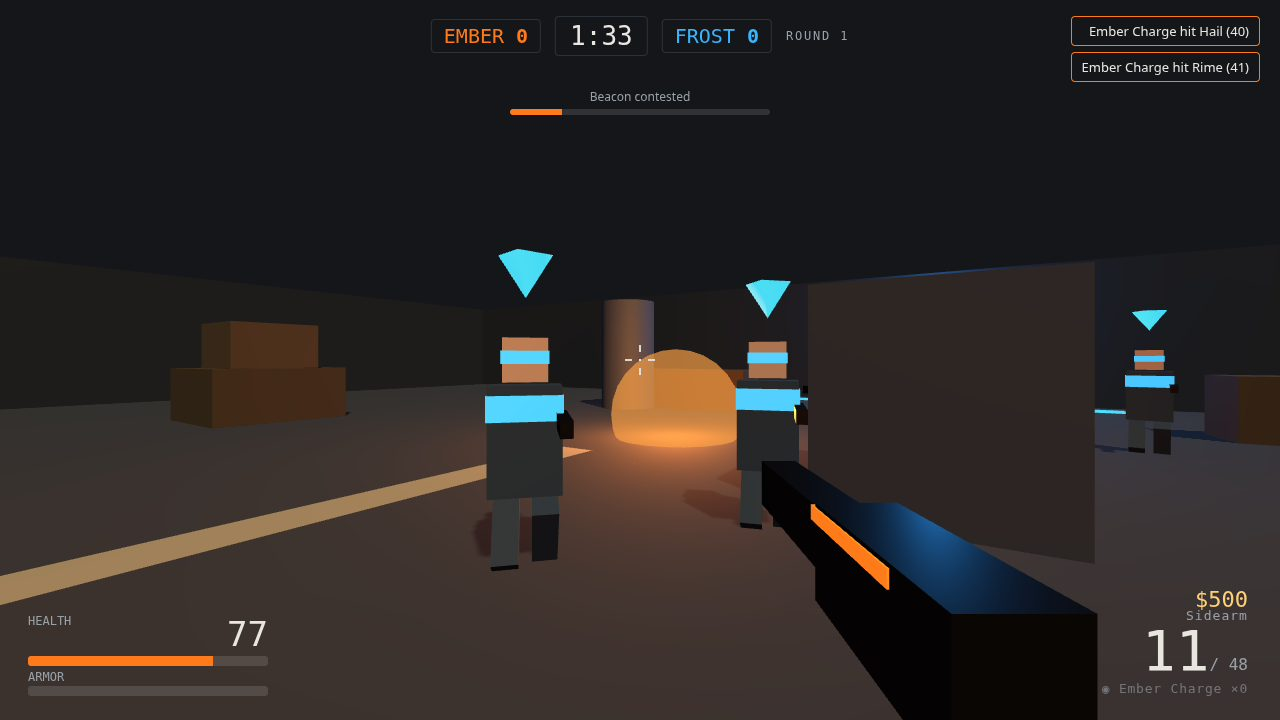
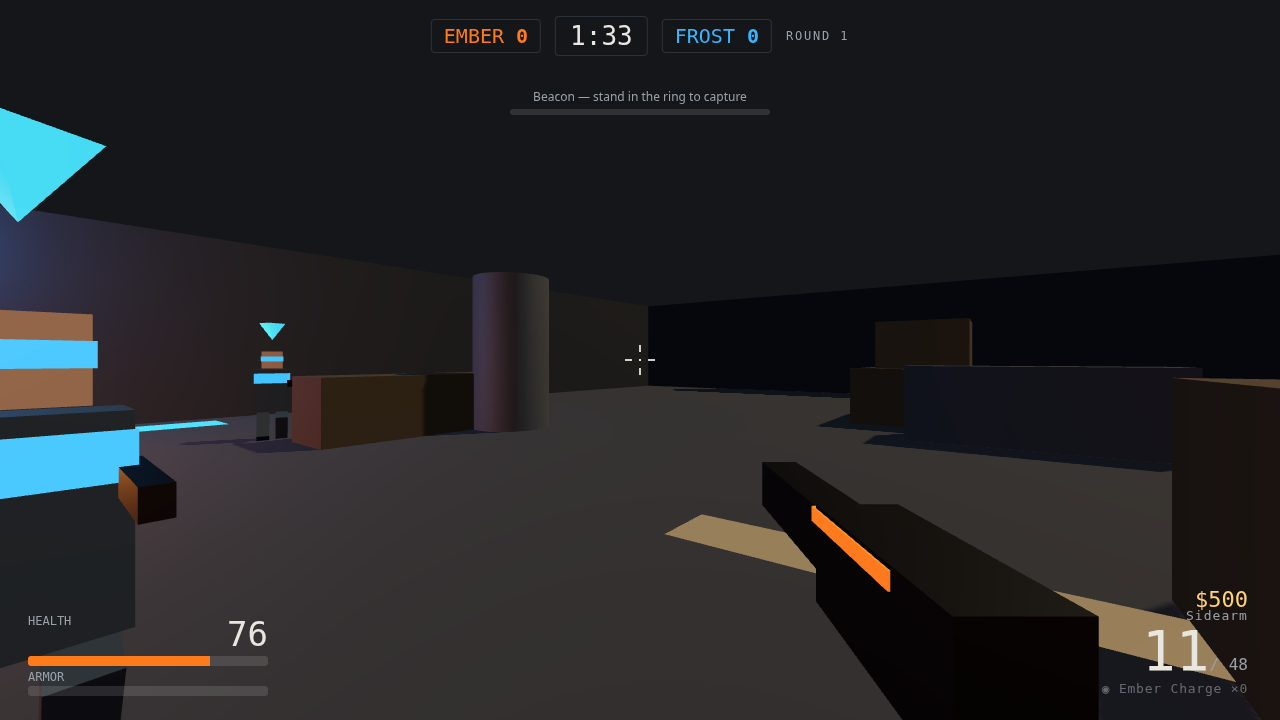
Revision: seeded spawn/route variety, pause restart, saved settings, FPS readout
- random.js: shuffle/chance helpers; bots pick among 3 closest waypoints,
  spawn slots reshuffle every round (seeded, still deterministic)
- Pause overlay gains a Restart match button; difficulty and mouse
  sensitivity persist in localStorage; FPS readout in the HUD

diff --git a/game/src/main.js b/game/src/main.js
@@ -9,7 +9,7 @@ import { createInput } from './input.js';
 import { createHud } from './hud.js';
 import { createSound } from './sound.js';
 import { WEAPONS, ARMOR_PRICE, ARMOR_ABSORB, START_MONEY, KILL_REWARD, WIN_REWARD, LOSS_REWARD, ROUND_TIME, CAPTURE_TIME, WIN_ROUNDS, GRENADE_PRICE, GRENADE_MAX, GRENADE_DAMAGE, GRENADE_RADIUS, weaponState } from './weapons.js';
-import { mulberry32, range } from './random.js';
+import { mulberry32, range, shuffle, chance } from './random.js';
 import { stageShot } from './shots.js';
 import { createViewmodel } from './viewmodel.js';
 
@@ -47,7 +47,25 @@ const tracers = createTracers(scene);
 const grenades = createGrenades(scene, world);
 const hud = createHud();
 const sound = createSound();
-const input = createInput(renderer.domElement, onLockChange);
+
+// Saved preferences (local only): difficulty and mouse sensitivity persist
+// between visits, so the title screen opens the way the player left it.
+// Both functions only run after match and input exist (on a key press or a
+// difficulty click), so referencing them here is safe.
+function saveSettings() {
+  try {
+    window.localStorage.setItem('emberline-settings',
+      JSON.stringify({ difficulty: match.difficulty, sensitivity: input.state.sensitivity }));
+  } catch { /* private mode or storage off: preferences just do not persist */ }
+}
+function loadSettings() {
+  try {
+    const s = JSON.parse(window.localStorage.getItem('emberline-settings') ?? '{}');
+    if (s.difficulty && DIFFICULTY[s.difficulty]) match.difficulty = s.difficulty;
+    if (typeof s.sensitivity === 'number') input.state.sensitivity = Math.min(2, Math.max(0.4, s.sensitivity));
+  } catch { /* corrupt or unavailable storage: keep the defaults */ }
+}
+const input = createInput(renderer.domElement, onLockChange, saveSettings);
 
 // Viewmodel gun (box assembly with walk bob, fire kick and reload dip).
 const viewmodel = createViewmodel(camera);
@@ -77,6 +95,8 @@ const player = {
 };
 let bots = [];
 let autopilot = false;
+loadSettings(); // restores the saved difficulty before the first bots spawn
+hud.setDifficulty(match.difficulty);
 let autoStrafe = 0, autoStuckTimer = 0, autoStrafeTimer = 0;
 let autoLastPos = { x: 0, z: 0 };
 let paused = false;
@@ -96,7 +116,9 @@ function spawnPositions(team) {
 function buildBots() {
   for (const b of bots) scene.remove(b.group);
   bots = [];
-  const e = spawnPositions('ember'), f = spawnPositions('frost');
+  // Fresh spawn-slot shuffle every rebuild, so the same bot does not always
+  // start from the same spot in the yard.
+  const e = shuffle(rng, spawnPositions('ember')), f = shuffle(rng, spawnPositions('frost'));
   const diff = DIFFICULTY[match.difficulty];
   for (let i = 0; i < 4; i++) bots.push(createBot(scene, world, { team: 'ember', index: i, x: e[i + 1].x, z: e[i + 1].z, rng, skillMult: diff.skill, speedMult: diff.speed }));
   for (let i = 0; i < 5; i++) bots.push(createBot(scene, world, { team: 'frost', index: i, x: f[i].x, z: f[i].z, rng, skillMult: diff.skill, speedMult: diff.speed }));
@@ -315,7 +337,9 @@ function startBuyPhase() {
   player.hp = 100; player.alive = true; player.spectate = null;
   player.pos.set(EMBER_SPAWN.x, 0, EMBER_SPAWN.z);
   player.yaw = 0; player.pitch = 0; player.velY = 0;
-  const e = spawnPositions('ember'), f = spawnPositions('frost');
+  // Fresh spawn-slot shuffle every round, so the same bot does not always
+  // start from the same spot in the yard.
+  const e = shuffle(rng, spawnPositions('ember')), f = shuffle(rng, spawnPositions('frost'));
   bots.forEach((b, i) => {
     const p = b.team === 'ember' ? e[i + 1] : f[i - 4];
     b.reset(p.x, p.z);
@@ -588,7 +612,7 @@ function autopilotStep(dt) {
     const moved = Math.hypot(player.pos.x - autoLastPos.x, player.pos.z - autoLastPos.z);
     autoLastPos = { x: player.pos.x, z: player.pos.z };
     autoStuckTimer = 0;
-    if (moved < 0.25 && autoStrafeTimer <= 0) { autoStrafe = autoStrafe === 0 ? 1 : -autoStrafe; autoStrafeTimer = 1.4; }
+    if (moved < 0.25 && autoStrafeTimer <= 0) { autoStrafe = chance(rng, 0.5) ? 1 : -1; autoStrafeTimer = 1.4; }
   }
   if (autoStrafeTimer > 0) { autoStrafeTimer -= dt; if (autoStrafeTimer <= 0) autoStrafe = 0; }
   let best = null, bestD = Infinity;
@@ -613,6 +637,7 @@ function onLockChange(locked) {
   if (!locked && match.phase === 'play' && player.alive && !paused) {
     paused = true;
     hud.title();
+    hud.showRestart();
     document.getElementById('overlay-title').textContent = 'PAUSED';
     document.getElementById('overlay-copy').innerHTML = 'Pointer released. Click below to jump back into the round.';
     document.getElementById('play').textContent = 'Resume';
@@ -625,7 +650,8 @@ hud.onPlay(() => {
   if (paused) { paused = false; hud.hideOverlay(); input.requestLock(); return; }
   if (match.phase === 'play') input.requestLock();
 });
-hud.onDifficulty((id) => { if (DIFFICULTY[id]) match.difficulty = id; });
+hud.onDifficulty((id) => { if (DIFFICULTY[id]) { match.difficulty = id; saveSettings(); } });
+hud.onRestart(() => { paused = false; hud.hideOverlay(); resetMatch(); });
 window.addEventListener('keydown', (e) => {
   if (e.code === 'KeyB' && match.phase === 'buy') startRound();
   if (e.code === 'KeyM') sound.toggleMute();
@@ -662,6 +688,7 @@ window.addEventListener('resize', () => {
 
 // ---- main loop ----
 let accumulator = 0, lastTime = performance.now();
+let fpsFrames = 0, fpsLast = performance.now();
 function frame(now) {
   requestAnimationFrame(frame);
   if (frozen) return;
@@ -669,6 +696,8 @@ function frame(now) {
   lastTime = now;
   accumulator += dt;
   while (accumulator >= FIXED_STEP) { step(FIXED_STEP); accumulator -= FIXED_STEP; }
+  fpsFrames += 1;
+  if (now - fpsLast >= 1000) { hud.setFps(fpsFrames); fpsFrames = 0; fpsLast = now; }
   renderer.render(scene, camera);
 }
 

diff --git a/game/index.html b/game/index.html
@@ -96,6 +96,10 @@
   .panel p b { color: var(--ink); }
   #play { font: inherit; font-weight: 600; padding: 12px 18px; border: 1px solid var(--accent); border-radius: 8px; background: var(--accent); color: #14161a; cursor: pointer; }
   #play:hover { background: var(--ink); border-color: var(--ink); }
+  #restart { font: inherit; font-weight: 600; padding: 12px 18px; margin-left: 8px; border: 1px solid var(--hairline); border-radius: 8px; background: transparent; color: var(--ink); cursor: pointer; }
+  #restart:hover { border-color: var(--ink); }
+  #restart[hidden] { display: none; }
+  #fps { position: fixed; left: 50%; bottom: 6px; transform: translateX(-50%); font-family: var(--font-readout); font-size: 11px; color: var(--muted); opacity: .7; }
   #difficulty { display: flex; gap: 8px; margin: 0 0 16px; }
   #difficulty button { flex: 1; font: inherit; font-size: 13px; padding: 8px 4px; color: var(--muted); background: #262b32; border: 1px solid var(--hairline); border-radius: 6px; cursor: pointer; }
   #difficulty button:hover { border-color: var(--accent); color: var(--ink); }
@@ -155,6 +159,7 @@
   </div>
   <div id="money">$800</div>
   <div id="banner" hidden><div id="banner-title"></div><div id="banner-sub"></div></div>
+  <div id="fps"></div>
 </div>
 
 <div id="overlay" class="overlay">
@@ -167,6 +172,7 @@
       <button type="button" data-diff="veteran">Veteran</button>
     </div>
     <button id="play" type="button">Click to play</button>
+    <button id="restart" type="button" hidden>Restart match</button>
     <div id="overlay-stats"></div>
     <ul class="keys">
       <li><kbd>W</kbd><kbd>A</kbd><kbd>S</kbd><kbd>D</kbd> Move &nbsp; <kbd>Shift</kbd> Sprint &nbsp; <kbd>Space</kbd> Jump &nbsp; <kbd>Ctrl</kbd> Crouch</li>

diff --git a/game/src/hud.js b/game/src/hud.js
@@ -18,6 +18,7 @@ export function createHud() {
     overlayStats: $('overlay-stats'), playBtn: $('play'), buyPanel: $('buy-panel'), titlePanel: $('title-panel'),
     buyMoney: $('buy-money'), buyList: $('buy-list'), buyTimer: $('buy-timer'),
     dmgNumbers: $('dmg-numbers'), difficulty: $('difficulty'),
+    restartBtn: $('restart'), fps: $('fps'),
   };
   let hitTimer = null;
   function showOverlay(title, copy, btn, statsHtml = '') {
@@ -29,6 +30,7 @@ export function createHud() {
     els.playBtn.textContent = btn;
     els.overlayStats.innerHTML = statsHtml;
     els.playBtn.style.display = btn ? '' : 'none';
+    els.restartBtn.hidden = true; // only the pause screen offers a restart
   }
   return {
     els,
@@ -61,6 +63,11 @@ export function createHud() {
     setHistory(history) {
       els.history.innerHTML = history.map((r) =>
         `<span class="hist-dot ${r === 'W' ? 'win' : r === 'L' ? 'loss' : 'draw'}">${r}</span>`).join('');
+    },
+    setFps(n) { els.fps.textContent = `${n} FPS`; },
+    // Mark the saved difficulty's button on the title screen.
+    setDifficulty(id) {
+      for (const b of els.difficulty.querySelectorAll('button')) b.classList.toggle('selected', b.dataset.diff === id);
     },
     showScoreboard(rowsHtml) {
       els.scoreboardBody.innerHTML = rowsHtml;
@@ -148,6 +155,8 @@ export function createHud() {
         'Play again', statsHtml);
     },
     onPlay(fn) { els.playBtn.addEventListener('click', fn); },
+    onRestart(fn) { els.restartBtn.addEventListener('click', fn); },
+    showRestart() { els.restartBtn.hidden = false; },
     onDifficulty(fn) {
       // Title-screen difficulty picker; the pressed button stays lit.
       for (const b of els.difficulty.querySelectorAll('button')) {

diff --git a/game/src/bots.js b/game/src/bots.js
@@ -2,7 +2,7 @@
 // line-of-sight engagement, strafing and burst fire. No external models.
 import * as THREE from 'three';
 import { WAYPOINTS } from './world.js';
-import { range } from './random.js';
+import { range, pick } from './random.js';
 
 const TEAM_COLOR = { ember: 0xff7a1a, frost: 0x37b6ff };
 const EMBER_NAMES = ['Ash', 'Cinder', 'Flint', 'Sable'];
@@ -164,13 +164,12 @@ export function updateBot(bot, dt, world, targets, rng, fire, time, onSpot) {
     } else {
       let goal = bot.lastSeen && time - bot.lastSeenAt < 6 ? bot.lastSeen : { x: 0, z: 0 };
       if (!bot.waypoint || Math.hypot(bot.waypoint.x - bot.pos.x, bot.waypoint.z - bot.pos.z) < 1.5) {
-        // Pick the waypoint closest to the goal that we can walk toward.
-        let wp = WAYPOINTS[0], wd = Infinity;
-        for (const w of WAYPOINTS) {
-          const d = Math.hypot(w.x - goal.x, w.z - goal.z) + Math.hypot(w.x - bot.pos.x, w.z - bot.pos.z) * 0.15;
-          if (d < wd) { wd = d; wp = w; }
-        }
-        bot.waypoint = wp;
+        // Route variety: score every waypoint, then pick at random among the
+        // three closest to the goal, so two bots do not march in lockstep.
+        const scored = WAYPOINTS.map((w) => ({
+          w, d: Math.hypot(w.x - goal.x, w.z - goal.z) + Math.hypot(w.x - bot.pos.x, w.z - bot.pos.z) * 0.15,
+        })).sort((a, b) => a.d - b.d);
+        bot.waypoint = pick(rng, scored.slice(0, 3)).w;
       }
       const dx = bot.waypoint.x - bot.pos.x, dz = bot.waypoint.z - bot.pos.z;
       const dist = Math.hypot(dx, dz) || 1;

diff --git a/game/src/input.js b/game/src/input.js
@@ -2,14 +2,15 @@
 // Mouse sensitivity is adjustable in play with [ and ] (0.4–2.0×), so a
 // player who finds the default turn speed too twitchy or too slow can tune it
 // without leaving the round; the value is read back by the HUD hint.
-export function createInput(canvas, onLockChange) {
+// `onSensitivity` runs after each sensitivity change (main.js saves it).
+export function createInput(canvas, onLockChange, onSensitivity) {
   const keys = new Set();
   const state = { keys, locked: false, firing: false, aiming: false, lookX: 0, lookY: 0, sensitivity: 1.0 };
   function onKey(e, down) {
     if (e.code === 'Space') e.preventDefault();
     if (down) keys.add(e.code); else keys.delete(e.code);
-    if (down && e.code === 'BracketLeft') state.sensitivity = Math.max(0.4, +(state.sensitivity - 0.2).toFixed(1));
-    if (down && e.code === 'BracketRight') state.sensitivity = Math.min(2.0, +(state.sensitivity + 0.2).toFixed(1));
+    if (down && e.code === 'BracketLeft') { state.sensitivity = Math.max(0.4, +(state.sensitivity - 0.2).toFixed(1)); onSensitivity?.(); }
+    if (down && e.code === 'BracketRight') { state.sensitivity = Math.min(2.0, +(state.sensitivity + 0.2).toFixed(1)); onSensitivity?.(); }
   }
   window.addEventListener('keydown', (e) => onKey(e, true));
   window.addEventListener('keyup', (e) => onKey(e, false));

diff --git a/game/src/random.js b/game/src/random.js
@@ -1,4 +1,6 @@
 // Seeded RNG (mulberry32) so ?seed=N replays the same bot behaviour and spawns.
+// Every random choice in the game goes through these helpers, never bare
+// Math.random(), so a seed reproduces a whole match.
 export function mulberry32(initial) {
   let a = initial | 0;
   return function random() {
@@ -10,3 +12,15 @@ export function mulberry32(initial) {
 }
 export function pick(rng, arr) { return arr[Math.floor(rng() * arr.length)]; }
 export function range(rng, lo, hi) { return lo + rng() * (hi - lo); }
+// Fisher-Yates on a copy: the caller's array keeps its order, the game gets a
+// fresh permutation (spawn slots, patrol order) every round.
+export function shuffle(rng, arr) {
+  const out = arr.slice();
+  for (let i = out.length - 1; i > 0; i--) {
+    const j = Math.floor(rng() * (i + 1));
+    const tmp = out[i]; out[i] = out[j]; out[j] = tmp;
+  }
+  return out;
+}
+// True with probability p (0..1): a readable coin flip for AI decisions.
+export function chance(rng, p) { return rng() < p; }
